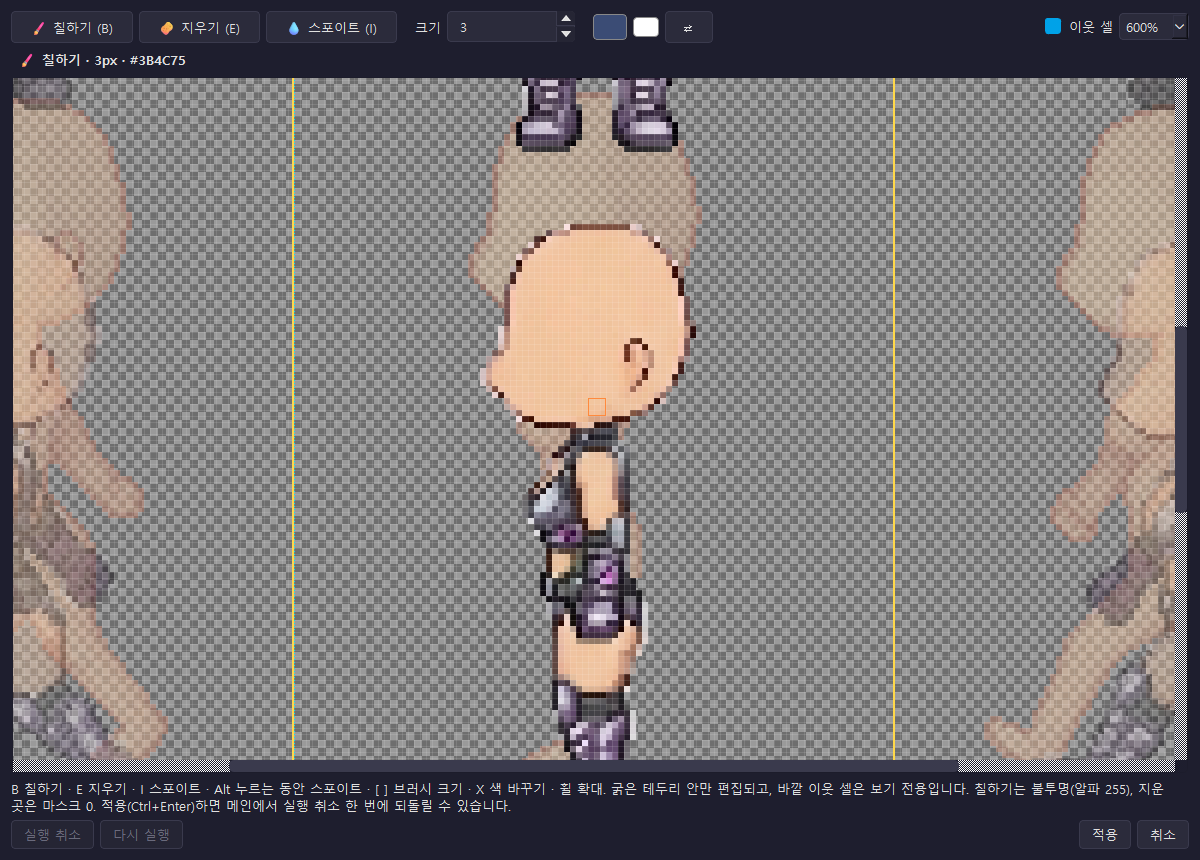
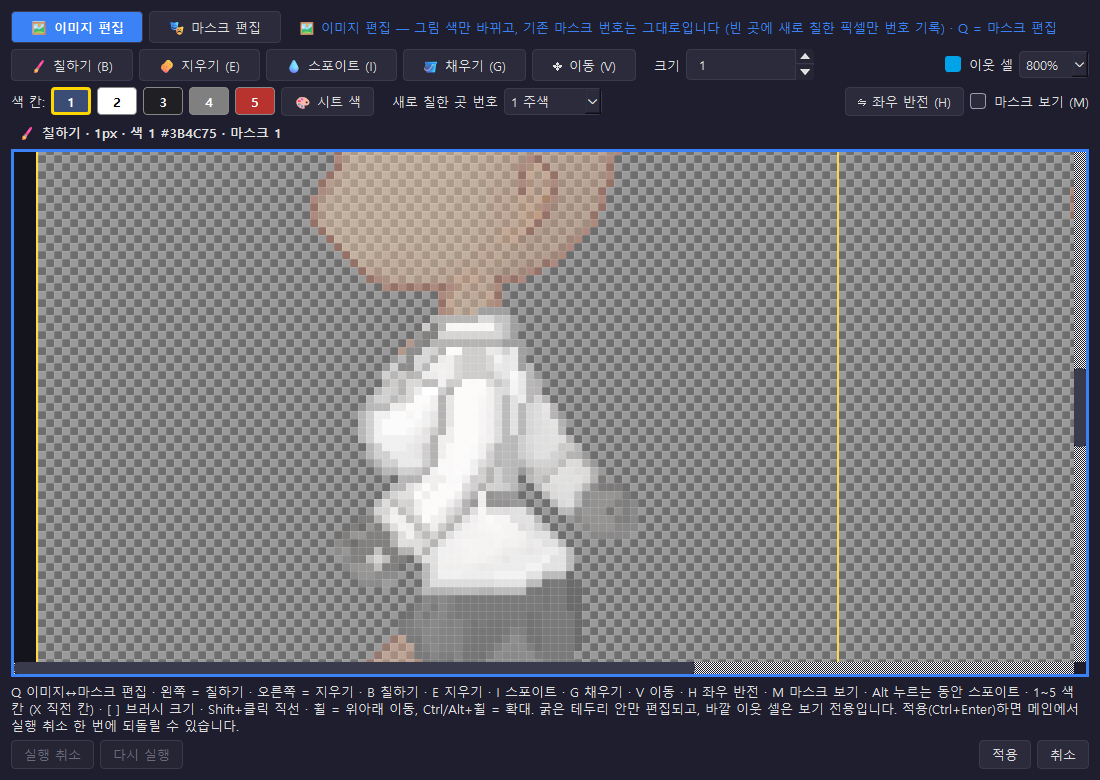
v0.4.2: README 스크린샷 교체(메인·셀 편집 이미지/마스크), 왼쪽 패널 안내 문구 갱신

diff --git a/README.md b/README.md
@@ -7,7 +7,7 @@
 기획서: 볼트 `에디터 툴 제작\EDT-ETC.6 스프라이트 시트 편집기 SpriteGrid Editor 기획서 v1.2.md`
 스택: Python 3 + PySide6(Qt) + Pillow + NumPy
 
-![SpriteGrid Editor 메인 화면 (H1 걷기 옷 시트 + Base Body 참조)](docs/images/main_ko.png)
+![SpriteGrid Editor v0.4.2 메인 화면 (H1 걷기 옷 시트 + Base Body 참조, Source R2C1 → Target R2C3)](docs/images/main_ko.png)
 
 ## 📌 주요 기능 (V0.4.2)
 
@@ -17,9 +17,11 @@
 - **폴더 일괄 변환** (Ctrl+Shift+B) — 폴더의 컬러 시트를 한 번에 회색 + 마스크로, 결과 더블클릭으로 바로 열어 보정, **폴더의 다음/이전 파일**(Ctrl+PgDn/PgUp)
 - **파일명 검증 강화**(소문자·구 종류 문자·번호 000·모션 접두사·공용↔체형별 공존·남은 `_M`), **Unity `.meta` 복제**(같은 폴더 시트의 임포트 설정 유지, guid = `md5('S_unit_' + 파일명)`), **단축키 목록**(Ctrl+/)
 
-| 셀 편집 창 (600%, 이웃 셀 반투명) | 폴더 일괄 변환 |
+| 셀 편집 창 — 🖼 이미지 편집 (파랑) | 셀 편집 창 — 🎭 마스크 편집 (주황, Q) |
 | :---: | :---: |
-| ![셀 편집 창](docs/images/celledit_ko.png) | ![폴더 일괄 변환](docs/images/batch_ko.png) |
+| ![셀 편집 창 이미지 편집](docs/images/celledit_ko.png) | ![셀 편집 창 마스크 편집](docs/images/celledit_mask_ko.png) |
+
+![폴더 일괄 변환](docs/images/batch_ko.png)
 
 ### 🖌 마스크 보정 · 쌍 작업 (3단계, V0.3.0)
 - **마스크 경계 보정 브러시** — 연필 · 채우기 · 사각형 · 번호 교체 · 지우개, **알파 보호**, 적용 범위(현재 셀 / 선택 셀 / 시트 전체), 획 단위 실행 취소

diff --git a/CHANGELOG.md b/CHANGELOG.md
@@ -5,6 +5,7 @@
 ### 🖱 셀 선택 해제
 - **같은 칸을 한 번 더 클릭하면 선택 해제** — Source는 그냥 클릭, Target은 `Shift`/`Ctrl`+클릭 (처음 고른 칸도 해제 가능)
 - 시트 밖 빈 곳 클릭 = 모두 해제, `Esc` = Target → Source 순서로 해제, `편집 → 선택 해제`(Ctrl+D)
+- 왼쪽 패널 안내 문구도 새 조작(다시 클릭 해제·Esc/Ctrl+D·휠 스크롤·Ctrl/Alt+휠 줌)으로 갱신, README 스크린샷 교체(메인·셀 편집 이미지/마스크 모드)
 
 ### 🎭 셀 편집 창: 이미지 편집 / 마스크 편집 모드 분리
 - 위쪽 전환 버튼 + `Q`, 모드마다 테두리 색 구분(이미지 = 파랑, 마스크 = 주황 + 안내 띠)
